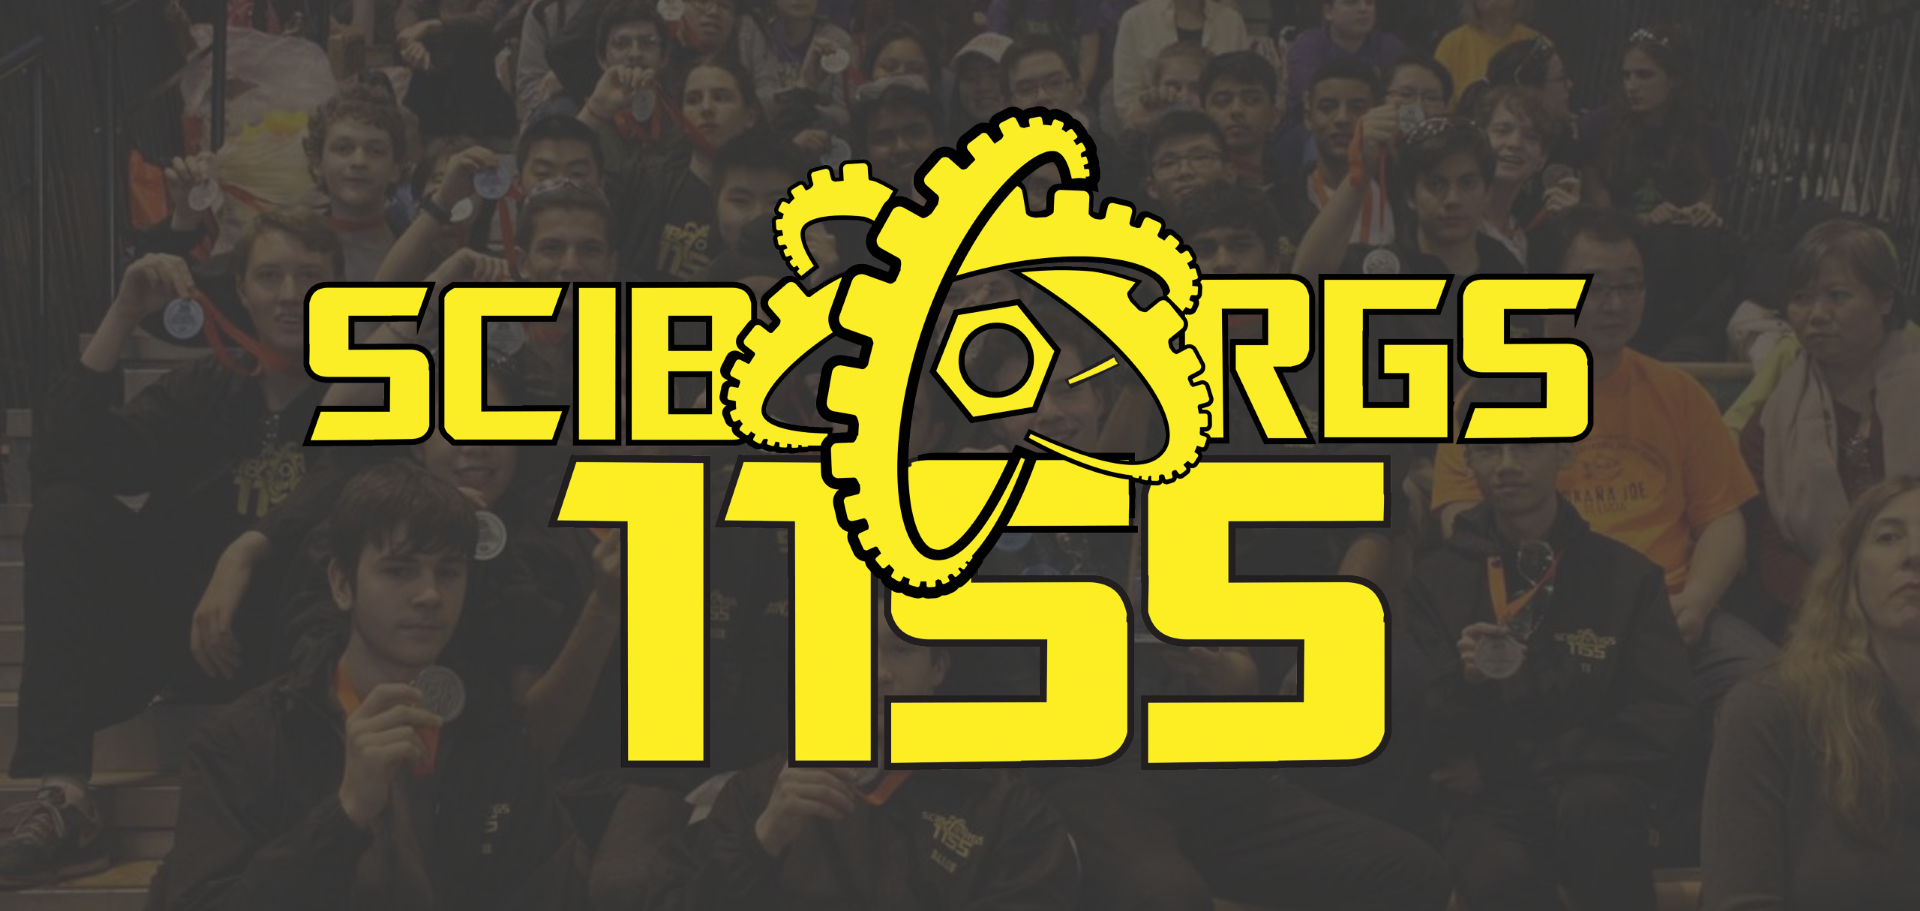
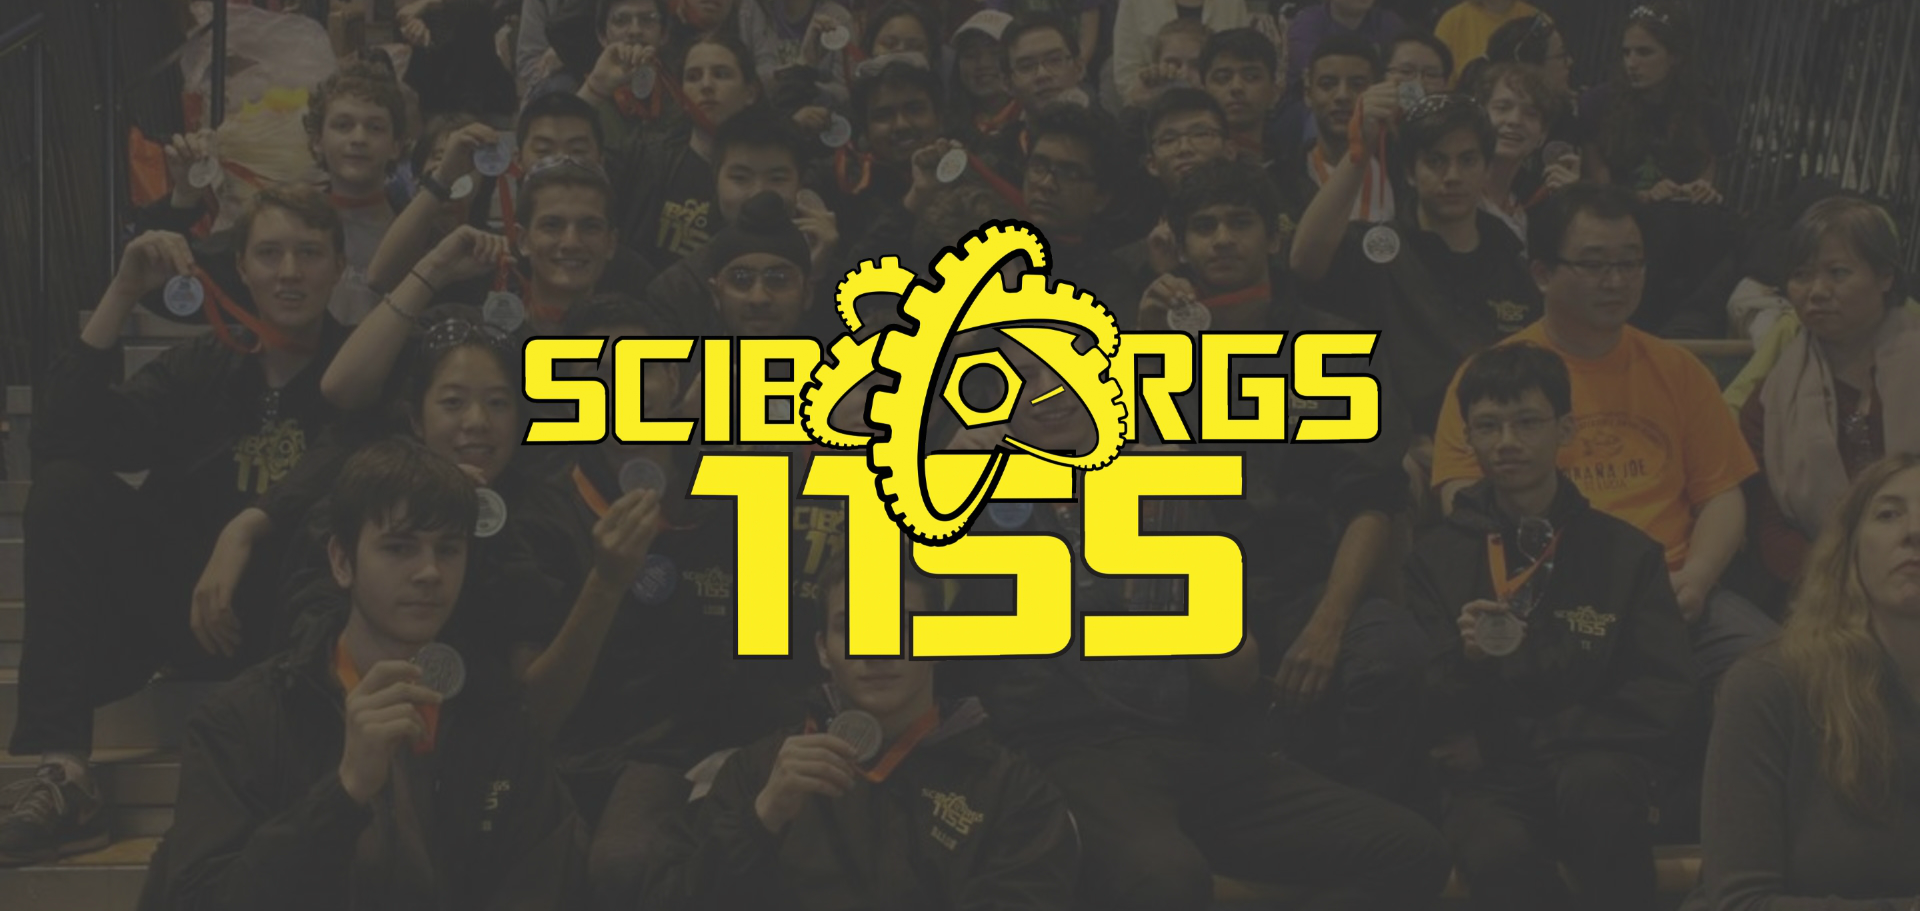
Fixed Front Page Picture

diff --git a/index.html b/index.html
@@ -52,7 +52,7 @@
     <br>
     <br>
     <div>
-      <img src="imgs/FrontPagePictureZiEdit.png" class="img-fluid" alt="Responsive image">
+      <img src="imgs/FrontPagePicture.png" class="img-fluid" alt="Responsive image">
     </div>
     <div class="about" id="about">
       <div class="container">
